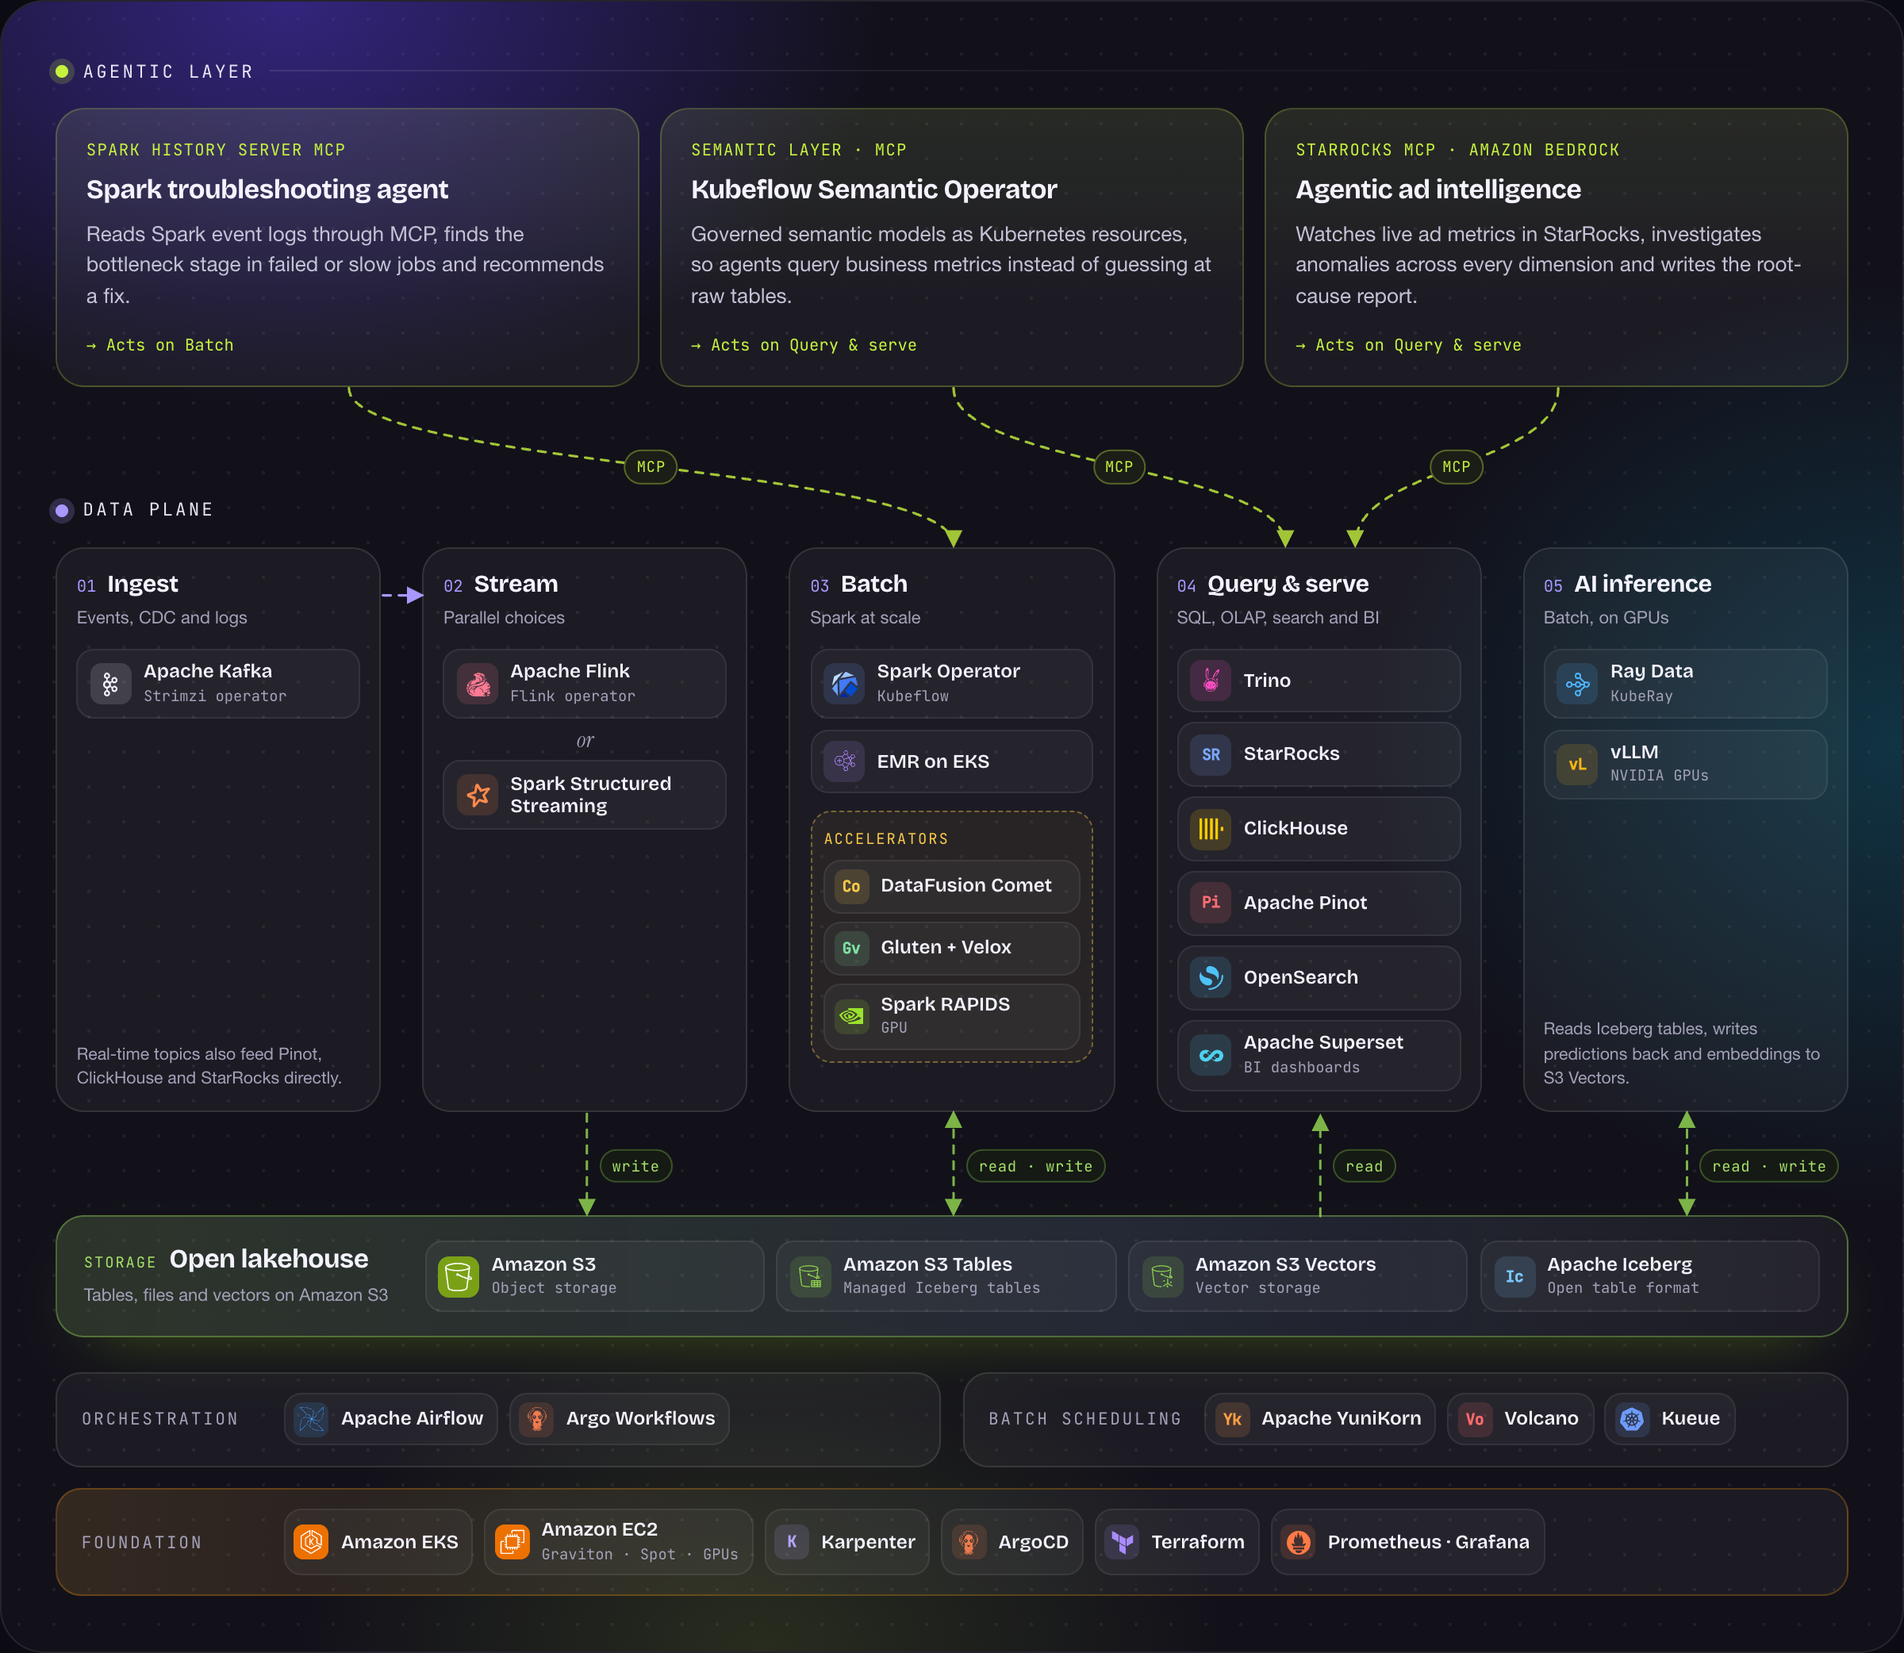
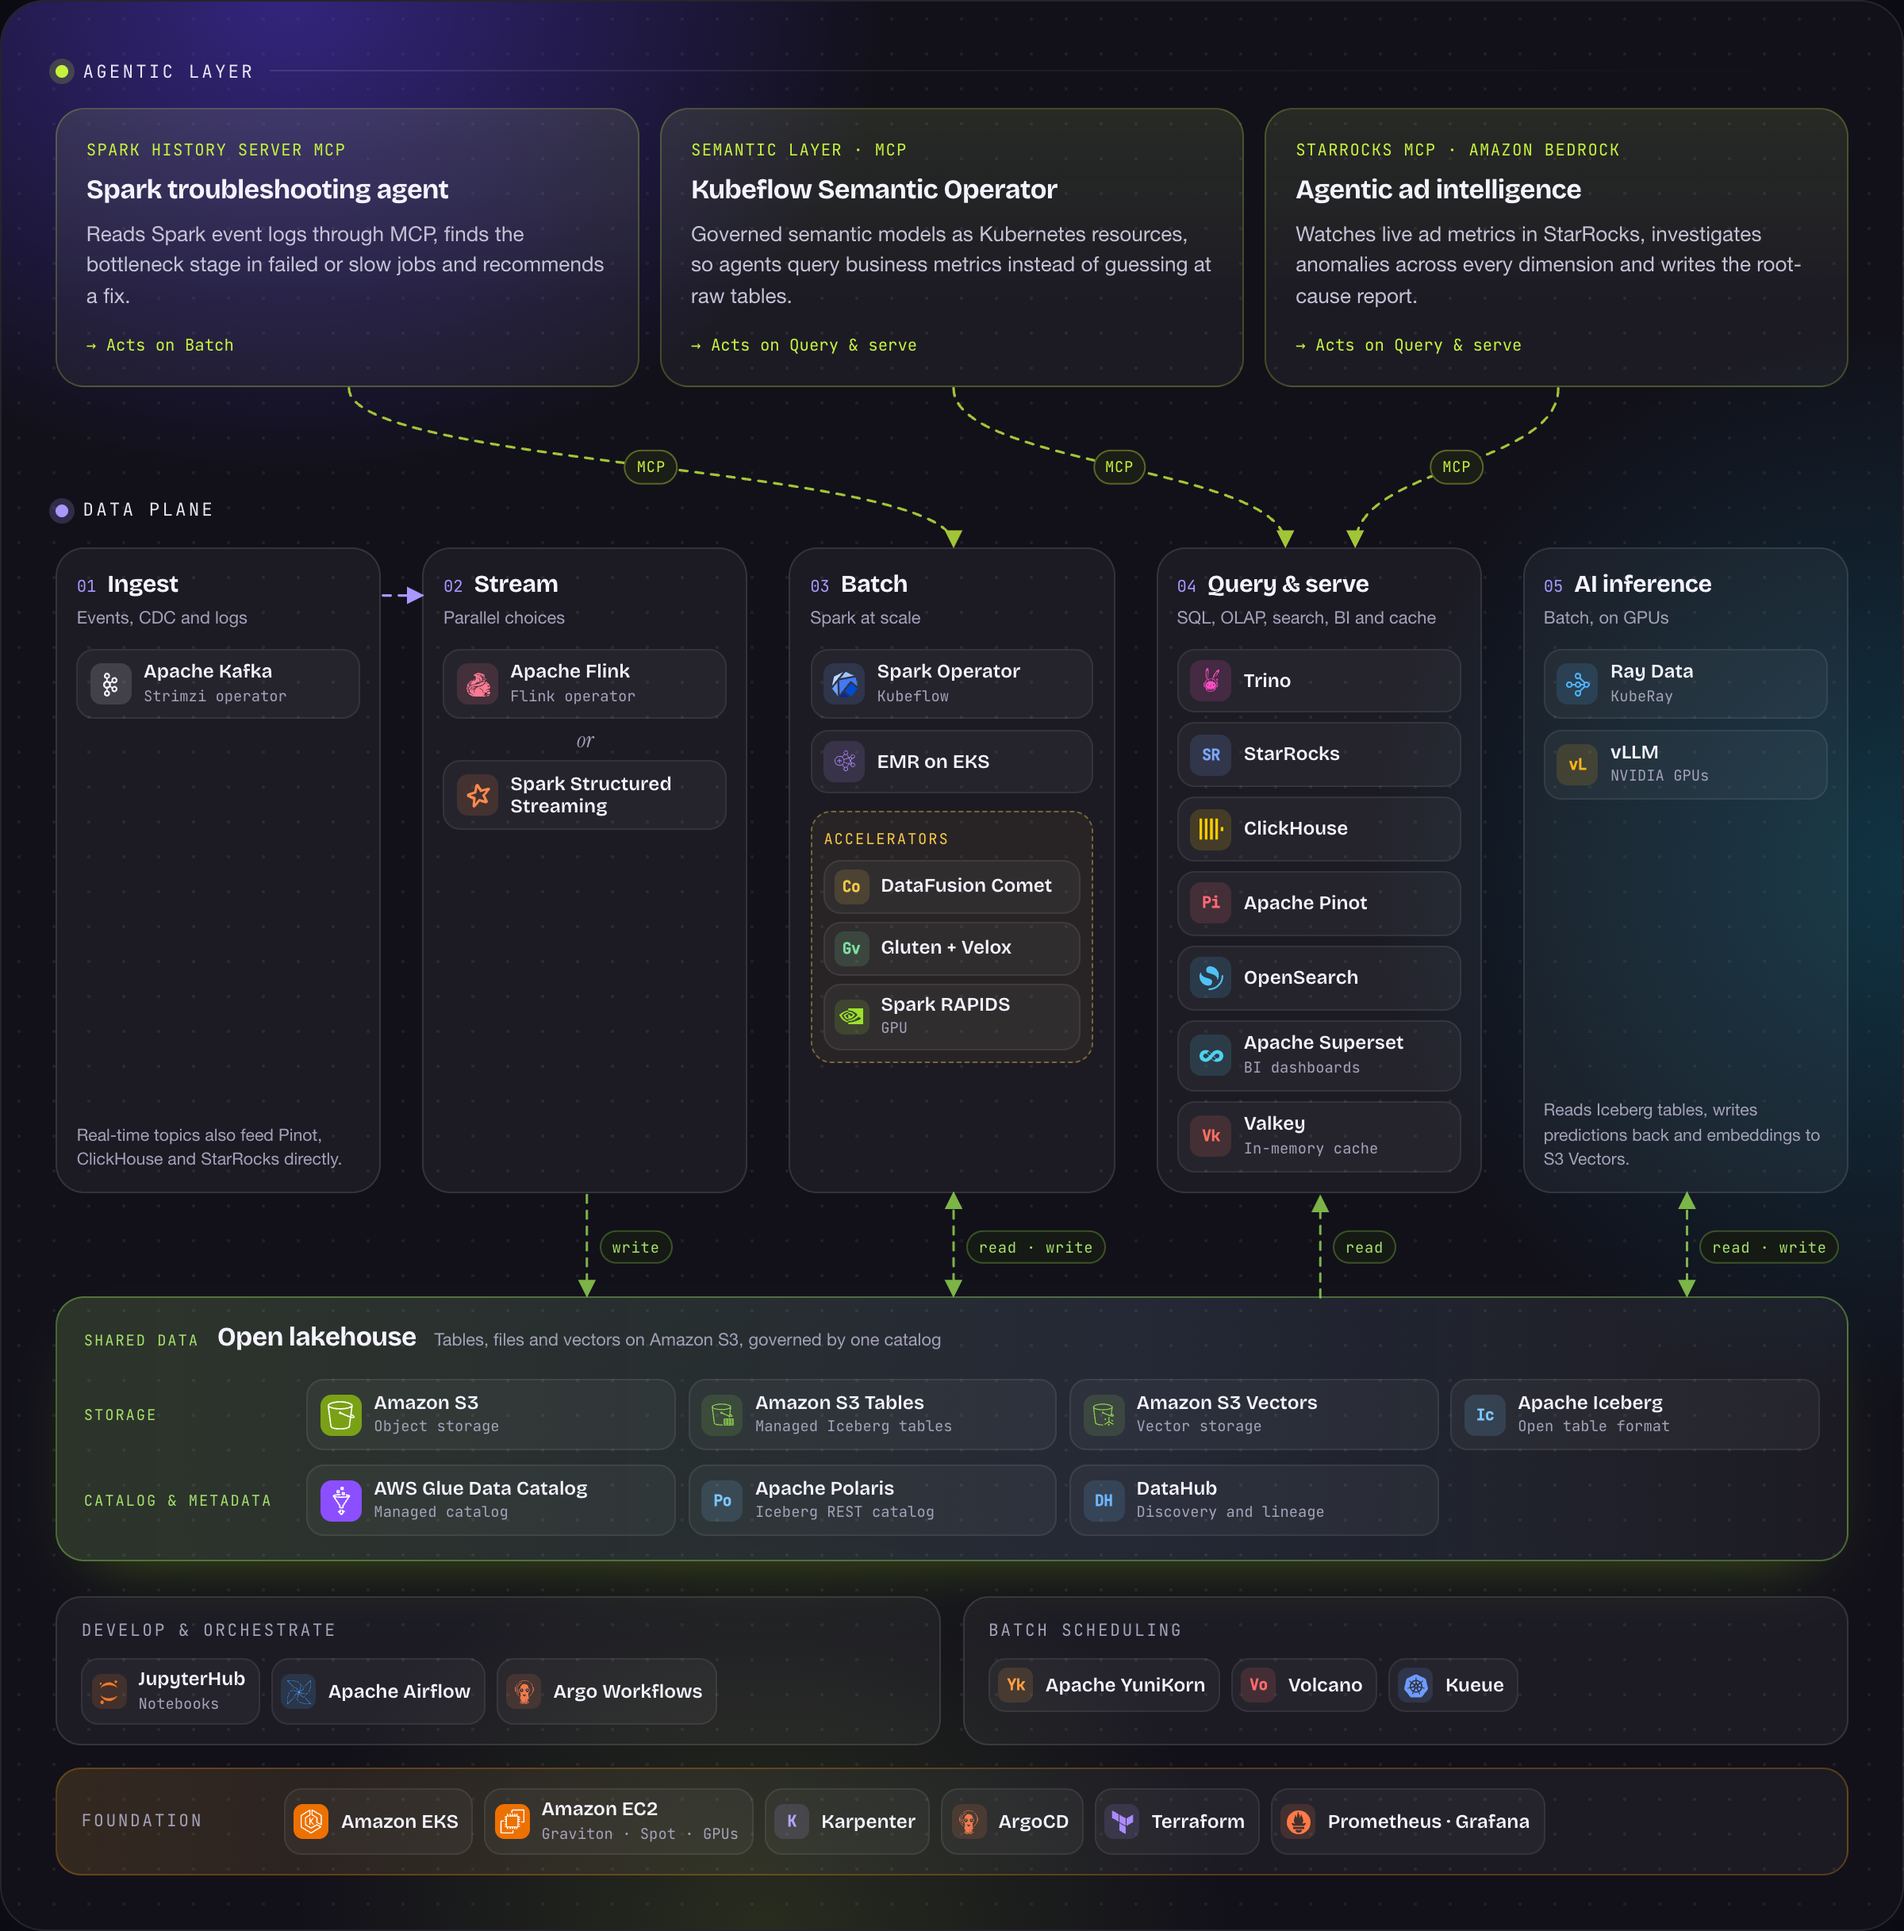
feat(website): add catalog, JupyterHub and Valkey to the architecture
- Lakehouse band now has a catalog & metadata row: AWS Glue Data
  Catalog, Apache Polaris (Iceberg REST) and DataHub
- Rename the orchestration band to "Develop & orchestrate" and add
  JupyterHub
- Add Valkey (in-memory cache) to Query & serve
- Update the README layer table and regenerate the architecture image

diff --git a/website/src/components/PlatformArchitecture/PlatformArchitecture.js b/website/src/components/PlatformArchitecture/PlatformArchitecture.js
@@ -11,8 +11,9 @@ import styles from './PlatformArchitecture.module.css';
  *                         \              \               /
  *   Compute         Ingest -> Stream   Batch   Query & serve   AI inference
  *                              |  write  | r/w    ^ read         | r/w
- *   Lakehouse       [ Amazon S3 · S3 Tables · S3 Vectors · Apache Iceberg ]
- *   Control         Orchestration | Batch scheduling
+ *   Lakehouse       storage [ Amazon S3 · S3 Tables · S3 Vectors · Apache Iceberg ]
+ *                   catalog [ AWS Glue Data Catalog · Apache Polaris · DataHub ]
+ *   Control         Develop & orchestrate | Batch scheduling
  *   Foundation      EKS, EC2, Karpenter, ArgoCD, Terraform, observability
  *
  * Boxes are HTML/CSS. The wires are an SVG overlay measured from the boxes'
@@ -102,7 +103,7 @@ const stages = [
   {
     id: 'stage-serve',
     name: 'Query & serve',
-    caption: 'SQL, OLAP, search and BI',
+    caption: 'SQL, OLAP, search, BI and cache',
     nodes: [
       { name: 'Trino', icon: tech('trino'), color: '#ff4dc4', href: 'https://trino.io/' },
       { name: 'StarRocks', icon: mono('SR'), color: '#7aa7ff', href: 'https://www.starrocks.io/' },
@@ -110,6 +111,7 @@ const stages = [
       { name: 'Apache Pinot', icon: mono('Pi'), color: '#ff6b73', href: 'https://pinot.apache.org/' },
       { name: 'OpenSearch', icon: tech('opensearch'), color: '#4fc3f7', href: 'https://opensearch.org/' },
       { name: 'Apache Superset', sub: 'BI dashboards', icon: tech('apachesuperset'), color: '#4fd1ef', href: 'https://superset.apache.org/' },
+      { name: 'Valkey', sub: 'In-memory cache', icon: mono('Vk'), color: '#ff6f61', href: 'https://valkey.io/' },
     ],
     hint: '↑ Reads from the lakehouse',
   },
@@ -126,17 +128,29 @@ const stages = [
   },
 ];
 
-const lakehouse = [
+const lakeStorage = [
   { name: 'Amazon S3', sub: 'Object storage', icon: aws('s3'), color: '#8fd14f', href: 'https://aws.amazon.com/s3/' },
   { name: 'Amazon S3 Tables', sub: 'Managed Iceberg tables', icon: awsLine('s3-tables'), color: '#8fd14f', href: 'https://aws.amazon.com/s3/features/tables/' },
   { name: 'Amazon S3 Vectors', sub: 'Vector storage', icon: awsLine('s3-vectors'), color: '#8fd14f', href: 'https://aws.amazon.com/s3/features/vectors/' },
   { name: 'Apache Iceberg', sub: 'Open table format', icon: mono('Ic'), color: '#7cc7ff', href: 'https://iceberg.apache.org/' },
 ];
 
+const lakeCatalog = [
+  { name: 'AWS Glue Data Catalog', sub: 'Managed catalog', icon: aws('glue'), color: '#a98bff', href: 'https://aws.amazon.com/glue/' },
+  { name: 'Apache Polaris', sub: 'Iceberg REST catalog', icon: mono('Po'), color: '#7cc7ff', href: 'https://polaris.apache.org/' },
+  { name: 'DataHub', sub: 'Discovery and lineage', icon: mono('DH'), color: '#6fb6ff', href: 'https://datahubproject.io/' },
+];
+
+const lakeRows = [
+  { label: 'Storage', nodes: lakeStorage },
+  { label: 'Catalog & metadata', nodes: lakeCatalog },
+];
+
 const bands = [
   {
-    name: 'Orchestration',
+    name: 'Develop & orchestrate',
     nodes: [
+      { name: 'JupyterHub', sub: 'Notebooks', icon: tech('jupyter'), color: '#f37726', href: 'https://jupyter.org/hub' },
       { name: 'Apache Airflow', icon: tech('apacheairflow'), color: '#4aa3ff', href: 'https://airflow.apache.org/' },
       { name: 'Argo Workflows', icon: tech('argo'), color: '#ef7b4d', href: 'https://argoproj.github.io/workflows/' },
     ],
@@ -417,13 +431,20 @@ export default function PlatformArchitecture() {
 
         <div className={styles.lakehouse} data-node="lake">
           <div className={styles.lakeHead}>
-            <span className={styles.lakeTag}>Storage</span>
+            <span className={styles.lakeTag}>Shared data</span>
             <h3 className={styles.lakeName}>Open lakehouse</h3>
-            <p className={styles.stageCaption}>Tables, files and vectors on Amazon S3</p>
+            <p className={styles.stageCaption}>Tables, files and vectors on Amazon S3, governed by one catalog</p>
           </div>
-          <div className={styles.lakeNodes}>
-            {lakehouse.map((n) => (
-              <Node key={n.name} node={n} />
+          <div className={styles.lakeRows}>
+            {lakeRows.map((row) => (
+              <div key={row.label} className={styles.lakeRow}>
+                <span className={styles.lakeRowLabel}>{row.label}</span>
+                <div className={styles.lakeNodes}>
+                  {row.nodes.map((n) => (
+                    <Node key={n.name} node={n} />
+                  ))}
+                </div>
+              </div>
             ))}
           </div>
         </div>

diff --git a/website/src/components/PlatformArchitecture/PlatformArchitecture.module.css b/website/src/components/PlatformArchitecture/PlatformArchitecture.module.css
@@ -463,7 +463,8 @@
 
 .lakehouse {
   display: flex;
-  align-items: center;
+  flex-direction: column;
+  align-items: stretch;
   gap: 1rem 1.5rem;
   margin-top: 1rem;
   padding: 1rem 1.1rem;
@@ -480,12 +481,14 @@
 }
 
 .lakeHead {
-  display: grid;
-  grid-template-columns: auto 1fr;
-  column-gap: 0.5rem;
+  display: flex;
+  flex-wrap: wrap;
   align-items: baseline;
-  flex-shrink: 0;
-  min-width: 11rem;
+  gap: 0.25rem 0.75rem;
+}
+
+.lakeHead .stageCaption {
+  margin: 0;
 }
 
 .lakeTag {
@@ -505,8 +508,30 @@
   color: #f4f3ff;
 }
 
-.lakeNodes {
+.lakeRows {
   flex: 1;
+  min-width: 0;
+  display: grid;
+  gap: 0.6rem;
+}
+
+.lakeRow {
+  display: grid;
+  grid-template-columns: 8.5rem minmax(0, 1fr);
+  align-items: center;
+  gap: 0.75rem;
+}
+
+.lakeRowLabel {
+  font-family: var(--doeks-font-mono);
+  font-size: 0.62rem;
+  letter-spacing: 0.1em;
+  text-transform: uppercase;
+  color: #a6e06a;
+}
+
+/* Fixed 4-track grid so the catalog row lines up under the storage row */
+.lakeNodes {
   display: grid;
   grid-template-columns: repeat(4, minmax(0, 1fr));
   gap: 0.5rem;
@@ -531,6 +556,11 @@
   border-radius: 16px;
   background: var(--panel);
   border: 1px solid var(--panel-line);
+}
+
+.band {
+  flex-direction: column;
+  align-items: flex-start;
 }
 
 .foundation {
@@ -582,6 +612,11 @@
 
   .lakeNodes {
     grid-template-columns: repeat(2, minmax(0, 1fr));
+  }
+
+  .lakeRow {
+    grid-template-columns: 1fr;
+    gap: 0.4rem;
   }
 }
 

diff --git a/README.md b/README.md
@@ -37,11 +37,12 @@ Every layer is a Terraform + ArgoCD blueprint you can deploy on its own or combi
 |---|---|
 | **Agentic** | Kubeflow Semantic Operator, Spark History Server MCP, StarRocks MCP agents |
 | **Ingest & stream** | Apache Kafka (Strimzi), Apache Flink, Spark Structured Streaming |
-| **Lakehouse** | Amazon S3, S3 Tables, S3 Vectors and Apache Iceberg |
+| **Lakehouse** | Amazon S3, S3 Tables, S3 Vectors and Apache Iceberg, cataloged with AWS Glue Data Catalog, Apache Polaris and DataHub |
 | **Batch** | Kubeflow Spark Operator, EMR on EKS, accelerated with DataFusion Comet, Gluten + Velox and Spark RAPIDS on GPUs |
-| **Query & serve** | Trino, StarRocks, ClickHouse, Apache Pinot, OpenSearch, Apache Superset |
+| **Query & serve** | Trino, StarRocks, ClickHouse, Apache Pinot, OpenSearch, Apache Superset, Valkey |
 | **AI inference** | Ray Data and vLLM on GPUs |
-| **Orchestration & scheduling** | Apache Airflow, Argo Workflows, Apache YuniKorn, Volcano, Kueue |
+| **Develop & orchestrate** | JupyterHub, Apache Airflow, Argo Workflows |
+| **Batch scheduling** | Apache YuniKorn, Volcano, Kueue |
 | **Foundation** | Amazon EKS, Amazon EC2 (Graviton, Spot, GPUs), Karpenter, ArgoCD, Terraform, Prometheus and Grafana |
 
 ## Quick start
